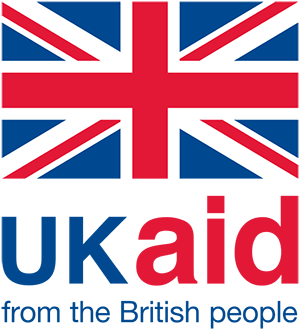
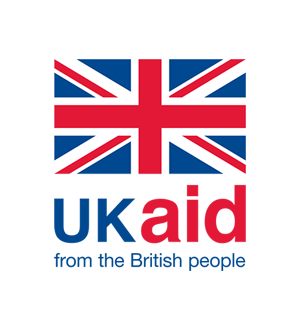
Fixes #4

diff --git a/index.html b/index.html
@@ -435,6 +435,40 @@
 </div>
 
     <br />
+    <hr />
+    <div class="columns is-mobile is-centered">
+  <div
+    class="column is-three-fifths-mobile is-three-fifths-tablet is-one-third-desktop is-one-third-widescreen is-one-third-fullhd"
+  >
+    <p class="title is-4 has-text-primary has-text-centered is-spaced">
+      In Collaboration With
+    </p>
+    <div class="columns is-centered">
+      <center>
+        <div class="column is-centered">
+          <figure class="image is-128x128">
+            <img src="images/wb.jpg" />
+          </figure>
+        </div>
+      </center>
+      <center>
+        <div class="column">
+          <figure class="image is-128x128">
+            <img src="images/ukaid.png" />
+          </figure>
+        </div>
+      </center>
+    </div>
+    <p class="subtitle is-6 has-text-centered">
+      Nepal Data Literacy Program is an initiative of ‘Partnership for
+      Knowledge-based Poverty Reduction and Shared Prosperity’, a World Bank
+      project with support from DFID to increase production and usage of data
+      and statistics in Nepal
+    </p>
+  </div>
+</div>
+
+    <br />
     <br />
     <footer class="footer">
     <div class="content">
